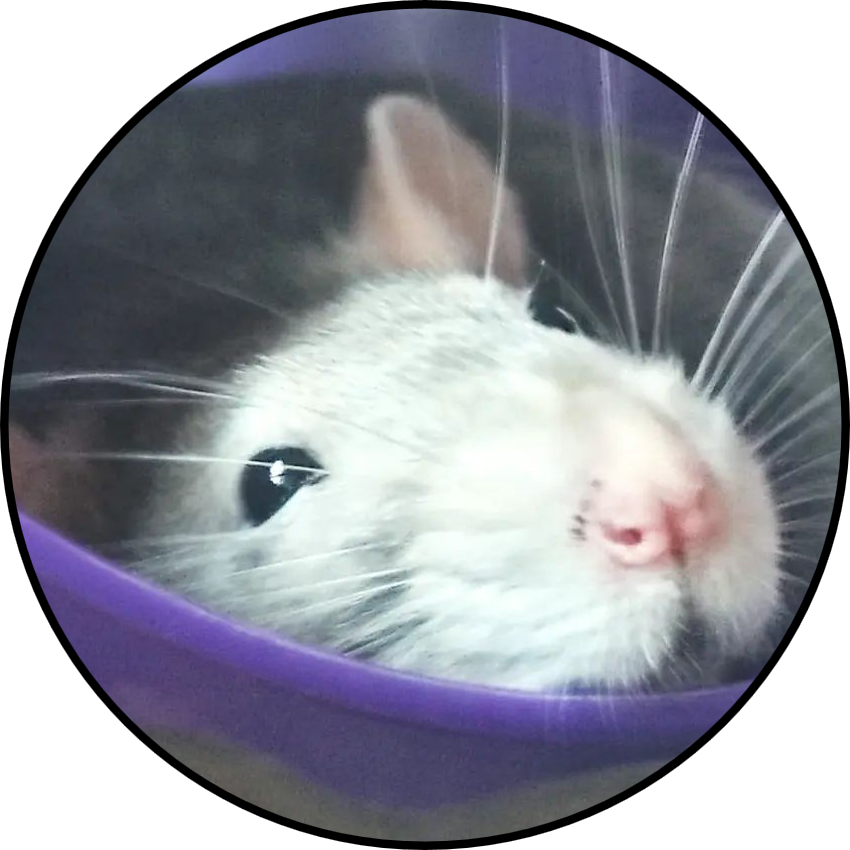
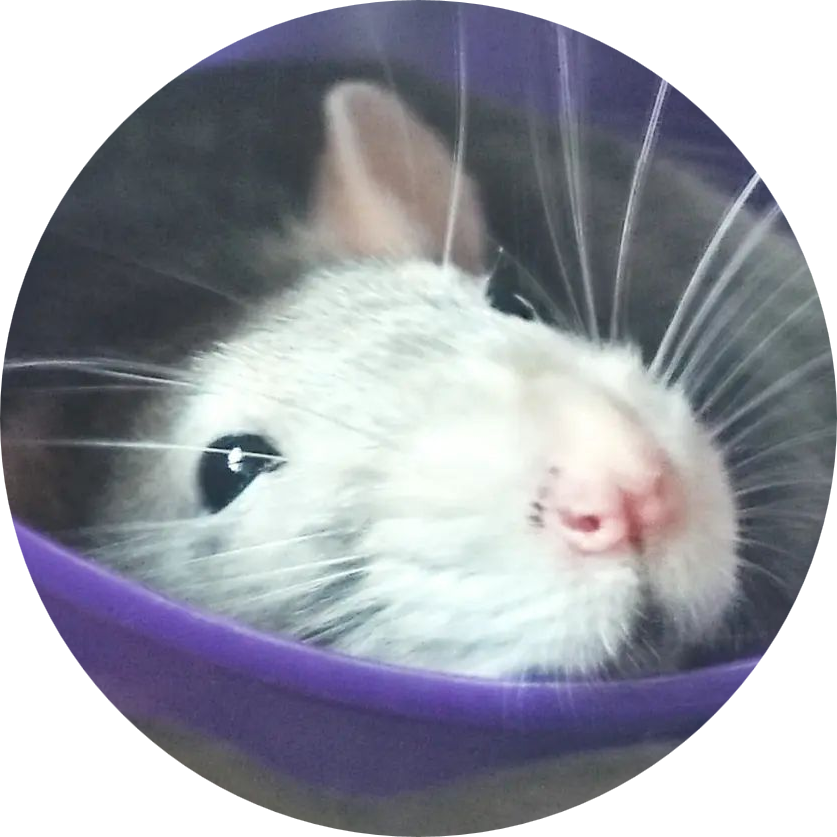
Finish design

diff --git a/css/style.css b/css/style.css
@@ -48,10 +48,10 @@ footer{
 }
 
 #userPhoto{
-    width: 96px;
-    height: 96px;
+    width: 128px;
+    height: 128px;
     display: block;
-    margin: 35px auto 20px;
+    margin: 20px auto 10px;
     border-radius: 50%;
     border: solid var(--color) 2px;
 }
@@ -77,7 +77,10 @@ footer{
 .link{
     display: block;
     margin-bottom: 20px;
-    padding: 17px;
+    padding-left: 	17px;
+	padding-right: 	17px;
+	padding-top: 	10px;
+	padding-bottom: 10px;
     font-weight: 500;
     border-radius: 5px;
     border: dashed var(--color) 2px;

diff --git a/index.html b/index.html
@@ -39,6 +39,12 @@
 							<span class="linkDivText">Discord</span>
 						</div>
 					</a>
+					<a class="link" href="javascript:mailButton()">
+						<div class="linkDiv">
+							<img class="linkDivImg" src="img/icons8/mail.png">
+							<span class="linkDivText">EMail</span>
+						</div>
+					</a>
 				</div>
 
 				<footer>
